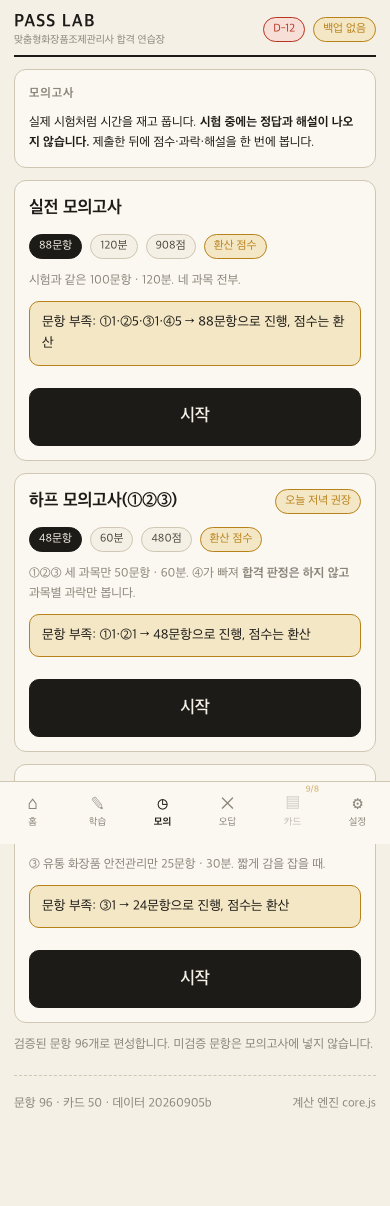
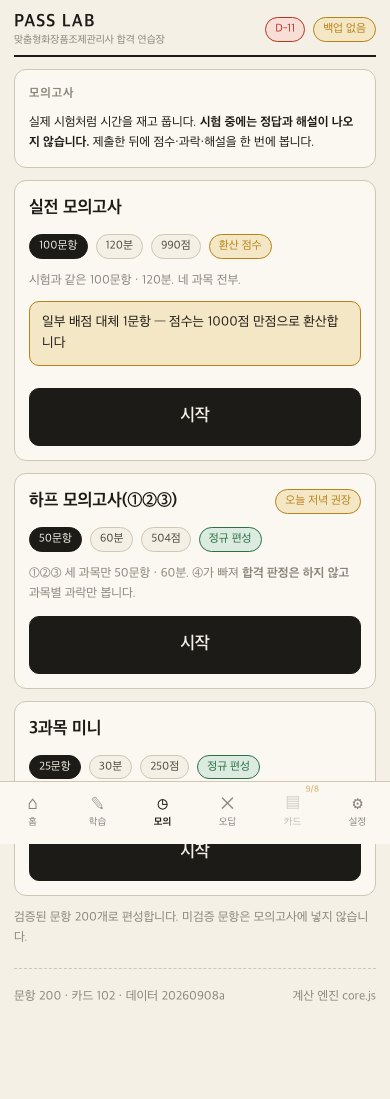
fix(ui): 모의 결과 max_reference 분모·plan 메타 전달, 버리기 2단계 확인, 미답 미기록, 리포트 판정 일치 (S3 Task 2 fix 1)
Claude-Session: https://claude.ai/code/session_01CnBEBW6G31ZJNJge7BQ6ck

diff --git a/app/app.js b/app/app.js
@@ -125,6 +125,7 @@ var S = {
   mockResult: null,       // 채점 결과 {grade, rec, order, answers, name, date}
   mockExplain: false,     // 결과 화면 해설 목록 열림
   mockExplainQid: null,   // 해설을 펼친 문항
+  mockAskDiscard: false,  // 버리기 확인창 열림
   mockCheck: null         // 설정 · 모의고사 가능 여부
 };
 
@@ -1027,9 +1028,10 @@ function viewRecentMocks() {
     var verdict = (pk === "full" && (m.pass === true || m.pass === false))
       ? '<span class="chip ' + (m.pass ? "green" : "red") + '">' + (m.pass ? "PASS" : "FAIL") + '</span>'
       : '<span class="chip gray">과목만</span>';
+    var ref = Number(m.max_reference) || 1000;      // 하프·미니는 만점이 1000점이 아니다
     h += '<tr><td>' + esc(String(m.date || "-")) + '</td>' +
          '<td class="l">' + esc(nm) + (m.partial ? ' <span class="chip gray">환산</span>' : "") + '</td>' +
-         '<td>' + (Number(m.scaled) || 0) + '</td><td>' + (Number(m.adj) || 0) + '</td>' +
+         '<td>' + (Number(m.scaled) || 0) + '/' + ref + '</td><td>' + (Number(m.adj) || 0) + '</td>' +
          '<td>' + verdict + '</td></tr>';
   });
   h += '</tbody></table></div></div>';
@@ -1070,7 +1072,15 @@ function viewMockSetup() {
   var hasMock = sess && sess.mode === "mock" && Array.isArray(sess.qids) && sess.qids.length;
   if (hasMock) {
     h += resumeBannerHTML(sess, "");
-    h += '<div class="row"><button class="btn sm ghost" data-act="mock-discard">이 모의고사 버리기</button></div>';
+    if (S.mockAskDiscard) {
+      var nAns = countAnswered(sess.qids, sess.answers);
+      h += '<div class="banner red"><span><b>정말 버릴까요?</b> 답 ' + nAns + '개가 사라지고 ' +
+           '되돌릴 수 없습니다. 채점도 하지 않습니다.</span></div>' +
+           '<div class="acts"><button class="btn danger primary" data-act="mock-discard-ok">네, 버립니다</button>' +
+           '<button class="btn ghost" data-act="mock-discard-cancel">취소</button></div>';
+    } else {
+      h += '<div class="row"><button class="btn sm ghost" data-act="mock-discard">이 모의고사 버리기</button></div>';
+    }
   }
 
   h += '<div class="card"><h2>모의고사</h2>' +
@@ -1360,20 +1370,24 @@ function viewMockResult() {
   var inMock = {};
   order.forEach(function (o) { inMock[o.subject] = (inMock[o.subject] || 0) + 1; });
   // core 계약: half·mini3는 pass가 null(판정 불가). 필드가 아직 없을 수도 있어 프리셋으로도 막는다.
-  var canJudge = (R.preset === "full") && (g.pass === true || g.pass === false);
   var missSubs = Array.isArray(g.missing_subjects) ? g.missing_subjects.map(Number) : null;
+  // 판정은 core의 pass가 true/false일 때만. 빠진 과목이 있으면(=pass null) 절대 판정하지 않는다.
+  var canJudge = (g.pass === true || g.pass === false) && !(missSubs && missSubs.length);
+  var refMax = Number(g.max_reference) || 1000;   // 이 시험지의 기준 만점(하프 504 · 미니 250 …)
+  var passTotal = (BP.exam && BP.exam.pass_total) || 600;
   var h = '<h2 style="font-size:22px;margin:14px 0 2px">' + esc(R.name) + ' 결과</h2>' +
           '<p class="small muted">' + esc(R.date) + ' · ' + total + '문항 · 걸린 시간 ' + esc(fmtDur(R.sec)) + '</p>';
 
-  h += '<div class="bigscore"><b>' + g.scaled + '</b><span>/ 1000점 · 합격선 600점</span></div>';
+  h += '<div class="bigscore"><b>' + g.scaled + '</b><span>/ ' + refMax + '점' +
+       (canJudge ? ' · 합격선 ' + passTotal + '점' : '') + '</span></div>';
 
   if (canJudge) {
     h += '<div class="verdict' + (g.pass ? " ok" : "") + '"><b>' + (g.pass ? "✓ PASS" : "✕ FAIL") + '</b>' +
-         '<p>' + (g.pass ? "총점 600점 이상, 과락 과목 없음."
+         '<p>' + (g.pass ? "총점 " + passTotal + "점 이상, 과락 과목 없음."
                         : (g.fail_subjects && g.fail_subjects.length
                             ? "과락 과목: " + esc(g.fail_subjects.map(function (id) {
                                 return (MARK[Number(id) - 1] || id) + " " + subjectOf(id).short_name; }).join(", "))
-                            : "총점이 합격선 600점에 못 미칩니다.")) + '</p></div>';
+                            : "총점이 합격선 " + passTotal + "점에 못 미칩니다.")) + '</p></div>';
   } else {
     var skipped = (missSubs && missSubs.length)
       ? missSubs.map(function (id) { return (MARK[id - 1] || id) + " " + subjectOf(id).short_name; }).join(", ")
@@ -1389,7 +1403,8 @@ function viewMockResult() {
             : (reason === "both" ? total + "문항 축소 + 일부 배점 대체 · <b>환산 점수</b>"
                                  : "문항 부족으로 " + total + "문항 축소 · <b>환산 점수</b>");
     h += '<div class="banner"><span>' + why + '입니다. ' +
-         '푼 문항 만점 ' + g.max_included + '점에서 얻은 ' + g.raw + '점을 1000점 기준으로 환산했습니다.</span></div>';
+         '푼 문항 만점 ' + g.max_included + '점에서 얻은 ' + g.raw + '점을 ' +
+         refMax + '점 기준으로 환산했습니다.</span></div>';
   }
   // 계약 4: 세션을 저장한 뒤 데이터 파일이 바뀌어 사라진 문항
   if (Array.isArray(g.missing_questions) && g.missing_questions.length) {
@@ -1480,11 +1495,13 @@ function viewMockResult() {
 
 /* 제출 뒤에만 열리는 읽기 전용 해설 */
 function viewMockExplain(R, noOf) {
-  var h = '<div class="card"><h2>문항별 해설 · 번호를 누르세요</h2><div class="numlist">';
+  var blank = {};
+  ((R.grade && R.grade.unanswered) || []).forEach(function (qid) { blank[qid] = true; });
+  var h = '<div class="card"><h2>문항별 해설 · 번호를 누르세요 (· = 미답)</h2><div class="numlist">';
   R.order.forEach(function (o) {
-    var ok = R.correct[o.qid] === true;
+    var mark = blank[o.qid] ? " ·" : (R.correct[o.qid] === true ? " ✓" : " ✕");
     h += '<button type="button" class="btn sm' + (S.mockExplainQid === o.qid ? " on" : "") +
-         '" data-act="mock-expl-q" data-qid="' + esc(o.qid) + '">' + o.no + (ok ? " ✓" : " ✕") + '</button>';
+         '" data-act="mock-expl-q" data-qid="' + esc(o.qid) + '">' + o.no + mark + '</button>';
   });
   h += '</div>';
 
@@ -1514,7 +1531,8 @@ function viewMockExplain(R, noOf) {
     });
     h += '</div>';
   }
-  h += '<div class="verdict' + (ok ? " ok" : "") + '"><b>' + (ok ? "✓ 맞음" : "✕ 틀림") + '</b></div>' +
+  h += '<div class="verdict' + (ok ? " ok" : (blank[qid] ? " warn" : "")) + '"><b>' +
+       (ok ? "✓ 맞음" : (blank[qid] ? "· 미답 (0점 · 시도로 기록하지 않음)" : "✕ 틀림")) + '</b></div>' +
        '<div class="ansbox"><div class="mine' + (ok ? " okmine" : "") + '"><small>내 답</small>' +
        esc(givenText(q, a.given)) + '</div>' +
        '<div class="real"><small>정답</small>' + esc(answerText(q)) + '</div></div>' +
@@ -1536,7 +1554,11 @@ function startMock(key) {
     sid: newSid(), mode: "mock",
     preset: {
       kind: "mock", key: m.preset, name: m.name, partial: m.partial === true,
-      planned_count: m.planned_count, minutes: m.minutes, warnings: m.warnings
+      // 채점에 반드시 필요한 편성 계획 — 없으면 core가 만점을 1000점으로 넘겨짚어
+      // 하프·미니 점수가 부풀고 환산 이유도 틀린다. 이어하기에서도 살아남아야 한다.
+      planned_count: m.planned_count, planned_points: m.planned_points,
+      slots_missing: m.slots_missing, substituted: m.substituted,
+      minutes: m.minutes, warnings: m.warnings
     },
     qids: m.qids.slice(), idx: 0, answers: {},
     startedAt: nowISO(), deadlineAt: new Date(Date.now() + m.minutes * 60 * 1000).toISOString(),
@@ -1629,7 +1651,12 @@ function finishMock(auto) {
   var meta = Q.preset || {};
   var mockObj = {
     preset: meta.key || "full", name: meta.name || "모의고사",
-    qids: Q.qids.slice(), partial: meta.partial === true
+    qids: Q.qids.slice(), partial: meta.partial === true,
+    // core는 이 값들로 환산 기준 만점(max_reference)과 환산 이유를 정한다
+    planned_count: meta.planned_count,
+    planned_points: meta.planned_points,
+    slots_missing: meta.slots_missing,
+    substituted: meta.substituted
   };
   var g = C.gradeMock(mockObj, Q.answers, S.questions, BP, TOPICS);
 
@@ -1640,6 +1667,9 @@ function finishMock(auto) {
     var q = S.byQid[qid];
     if (!q) return;
     var a = Q.answers[qid] || {};
+    // 미답은 시도로 기록하지 않는다(미답 ≠ 찍음·오답 — 숙달도·오답노트를 더럽히지 않는다).
+    // 점수에는 이미 0점으로 들어갔고 결과 화면 '미답 목록'이 따로 알려 준다.
+    if (!hasAnswerFor(q, a)) { correctMap[qid] = false; return; }
     var correct, nearMiss = false, r;
     if (q.type === "mcq") correct = C.gradeMcq(q, a.given);
     else { r = C.gradeShort(q, a.given); correct = r.correct === true; nearMiss = !!r.nearMiss; }
@@ -1696,8 +1726,13 @@ function mockReportText() {
   var mk = w.mocks.length
     ? w.mocks.map(function (m) {
         var nm = (C.MOCK_PRESETS[m.preset] && C.MOCK_PRESETS[m.preset].name) || m.preset;
-        return m.date + " " + nm + " " + m.scaled + "점(보정 " + m.adj + ")" +
-               (m.preset === "full" ? (m.pass ? " PASS" : " FAIL") : " 과목만");
+        var judged = (m.pass === true || m.pass === false);
+        var orig = S.mocks.filter(function (x) {
+          return x.date === m.date && (x.preset || "full") === m.preset && Number(x.scaled) === m.scaled;
+        })[0];
+        var ref = (orig && Number(orig.max_reference)) || 1000;
+        return m.date + " " + nm + " " + m.scaled + "/" + ref + "점(보정 " + m.adj + ")" +
+               (judged ? (m.pass ? " PASS" : " FAIL") : " 판정 없음");
       }).join(" / ")
     : "지난 7일 기록 없음";
 
@@ -2279,6 +2314,7 @@ var ACTIONS = {
     if (id === "mock" && S.quiz && S.quiz.mode === "mock") { S.screen = "mockexam"; render({ top: true }); return; }
     S.screen = map[id] || "home";
     S.mockAskStart = null;
+    S.mockAskDiscard = false;
     S.claudeText = null;
     render({ top: true });
   },
@@ -2390,10 +2426,13 @@ var ACTIONS = {
   "mock-cancel": function () { S.mockAskStart = null; render(); },
   "mock-go": function (t) { startMock(t.getAttribute("data-preset")); },
   "mock-resume": function () { resumeMock(); },
-  "mock-discard": function () {
+  "mock-discard": function () { S.mockAskDiscard = true; render(); },
+  "mock-discard-cancel": function () { S.mockAskDiscard = false; render(); },
+  "mock-discard-ok": function () {
     clearSession();
     S.quiz = null;
     S.mockPlans = null;
+    S.mockAskDiscard = false;
     stopMockTimer();
     toast("진행 중이던 모의고사를 버렸습니다.");
     render();
